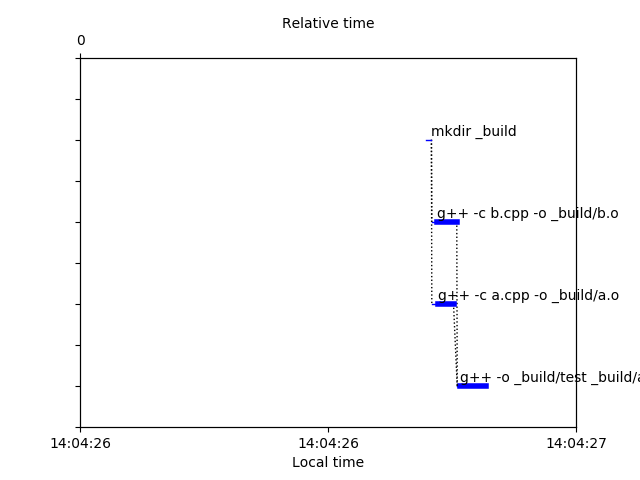
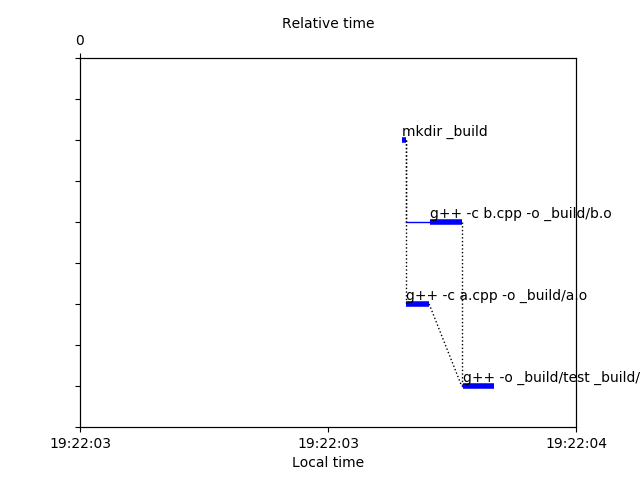
Remove false overlap between actions in Gantt chart

diff --git a/ActionTree/__init__.py b/ActionTree/__init__.py
@@ -507,10 +507,15 @@ class GanttChart(object):  # pragma no cover (Too difficult to unit test)
         def draw(self, ax, ordinates, actions):
             ordinate = ordinates[self.__id]
             ax.plot([self.__ready_time, self.__start_time], [ordinate, ordinate], color="blue", lw=1)
-            # @todo Use an other end-style to avoid pixels before/after min/max_time
-            ax.plot([self.__start_time, self.__success_time], [ordinate, ordinate], color="blue", lw=4)
+            ax.plot(
+                [self.__start_time, self.__success_time], [ordinate, ordinate],
+                color="blue", lw=4, solid_capstyle="butt",
+            )
             # @todo Make sure the text is not outside the plot on the right
-            ax.annotate(self.__label, xy=(self.__start_time, ordinate), xytext=(0, 3), textcoords="offset points")
+            ax.annotate(
+                self.__label,
+                xy=(self.__start_time, ordinate), xytext=(0, 3), textcoords="offset points",
+            )
             for d in self.__dependencies:
                 ax.plot([actions[d].max_time, self.min_time], [ordinates[d], ordinate], "k:", lw=1)
 
@@ -534,8 +539,14 @@ class GanttChart(object):  # pragma no cover (Too difficult to unit test)
         def draw(self, ax, ordinates, actions):
             ordinate = ordinates[self.__id]
             ax.plot([self.__ready_time, self.__start_time], [ordinate, ordinate], color="red", lw=1)
-            ax.plot([self.__start_time, self.__failure_time], [ordinate, ordinate], color="red", lw=4)
-            ax.annotate(self.__label, xy=(self.__start_time, ordinate), xytext=(0, 3), textcoords="offset points")
+            ax.plot(
+                [self.__start_time, self.__failure_time], [ordinate, ordinate],
+                color="red", lw=4, solid_capstyle="butt",
+            )
+            ax.annotate(
+                self.__label,
+                xy=(self.__start_time, ordinate), xytext=(0, 3), textcoords="offset points",
+            )
             for d in self.__dependencies:
                 ax.plot([actions[d].max_time, self.min_time], [ordinates[d], ordinate], "k:", lw=1)
 
@@ -560,10 +571,9 @@ class GanttChart(object):  # pragma no cover (Too difficult to unit test)
             if self.__ready_time:
                 ax.plot([self.__ready_time, self.__cancel_time], [ordinate, ordinate], color="grey", lw=1)
             ax.annotate(
-                "(Canceled) {}".format(self.__label),
-                xy=(self.__cancel_time, ordinate),
-                xytext=(0, 3),
-                textcoords="offset points"
+                self.__label,
+                xy=(self.__cancel_time, ordinate), xytext=(0, 3), textcoords="offset points",
+                color="grey",
             )
             for d in self.__dependencies:
                 ax.plot([actions[d].max_time, self.min_time], [ordinates[d], ordinate], "k:", lw=1)
